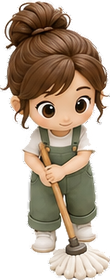
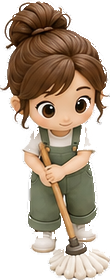
보드 비율·누끼·사운드·별점 연출 등 다듬기
- 보드: 세로를 평균 폭에 맞춰 타일이 정사각으로 보이게(Y0/Y1 850/1610), 침대 침범 해소
- 캐릭터: 머리카락 주변 흰 누끼 잔여 제거(9장, 총 9,419px)
- 하단 진행바(progressWrap) 삭제 — 관련 HTML/CSS/JS 정리
- 장애물이 놓인 칸은 깨끗한 타일(0)로 렌더
- 타일 2·3을 같은 얼룩 패턴의 강약 2단계로 재생성 → 밝기 214/183/149/121/94/60 균등 진행
  (기존엔 3번이 가장자리만 더러워 2번보다 깨끗해 보였다)
- 사운드: 청소음의 '픽' 나던 삼각파 제거, 반짝임을 부드러운 종소리로 교체, 별 효과음 추가
- 클리어 팝업: 별이 1→2→3 순서로 박히는 애니메이션(빠를수록 3개), 용도 없던 '해금' 문구 제거
- 스테이지 화면: 뒤로 버튼과 제목 알약을 한 줄 세로 중앙 정렬, 제목 텍스트 알약 정중앙

Claude-Session: https://claude.ai/code/session_0111YUZQqwRvMGsnxcS6qdpi

diff --git a/css/style.css b/css/style.css
@@ -172,20 +172,17 @@ button:disabled { opacity: .45; filter: none; cursor: default; }
 }
 .tool:has(button:disabled) > span { opacity: .45; }
 
-/* ================================ 진행 게이지 ============================== */
-#progressWrap {
-  position: fixed;
-  left: 50%; transform: translateX(-50%);
-  bottom: calc(var(--safe-b) + 210px * var(--k));
-  width: 46%; height: calc(14px * var(--k));
-  background: rgba(120, 94, 62, .22);
-  border-radius: 99px; overflow: hidden; z-index: 4;
-}
-#progressBar {
-  height: 100%; width: 0%;
-  background: linear-gradient(90deg, var(--sage), #cbbf86, #e8c98a);
-  border-radius: 99px;
-  transition: width .28s cubic-bezier(.22, 1, .36, 1);
+/* ============================ 클리어 별점 애니메이션 ======================= */
+.clear-stars { display: flex; justify-content: center; gap: 10px; margin: 2px 0 6px; height: 46px; }
+.clear-stars img { width: 46px; height: 46px; }
+/* 아직 안 박힌 별 — 크게 벌어진 채 투명 */
+.clear-stars img.off { opacity: 0; transform: scale(2.2) rotate(-25deg); }
+/* 박히는 순간 — 위에서 '탁' 내려앉으며 살짝 튕긴다 */
+.clear-stars img.on { opacity: 1; animation: starPop .42s cubic-bezier(.2, 1.5, .4, 1) both; }
+@keyframes starPop {
+  0%   { opacity: 0; transform: scale(2.2) rotate(-25deg); }
+  60%  { opacity: 1; transform: scale(.86) rotate(4deg); }
+  100% { opacity: 1; transform: scale(1) rotate(0); }
 }
 
 /* ================================== 화면 ================================== */
@@ -285,18 +282,28 @@ button:disabled { opacity: .45; filter: none; cursor: default; }
 /* ===== 스테이지 선택 (페이저 + 레벨 그리드) ===== */
 .stage-screen { justify-content: flex-start; gap: 10px;
   padding: calc(var(--safe-t) + 12px) 0 calc(var(--safe-b) + 22px); }
+/* 뒤로 버튼과 제목 알약을 한 줄에 — 서로 세로 중앙 정렬 */
+.stage-head {
+  width: 100%; display: flex; align-items: center; gap: 12px;
+  padding: 0 16px; margin-bottom: 4px;
+}
 .stage-back {
-  position: absolute; top: calc(var(--safe-t) + 14px); left: 14px; z-index: 6;
+  flex: 0 0 auto;
   width: 46px; height: 46px; border-radius: 50%; padding: 0;
   background: rgba(253, 247, 234, .9); border: 3px solid var(--wood); color: var(--ink);
   cursor: pointer; display: flex; align-items: center; justify-content: center;
 }
-.stage-back svg { width: 24px; height: 24px; }
+.stage-back svg { width: 24px; height: 24px; display: block; }
+/* 알약 안에서 글자가 정확히 가운데 오도록 flex 중앙 정렬(폰트 baseline 보정) */
 .title-pill {
+  flex: 1; min-width: 0; height: 52px;
+  display: flex; align-items: center; justify-content: center;
+  /* 뒤로 버튼(46px + gap 12px)만큼 오른쪽에 여백을 둬 알약이 화면 정중앙에 오게 한다 */
+  margin-right: 58px;
   font-size: 28px; font-weight: 800; color: var(--ink); letter-spacing: 1px;
   background: linear-gradient(180deg, #fbf1d8, #efe0bd);
   border: 5px solid var(--wood); border-radius: 999px;
-  padding: 6px 44px; box-shadow: 0 5px 0 var(--wood-dark); margin: 2px 0 4px;
+  box-shadow: 0 5px 0 var(--wood-dark);
 }
 .area-viewport { width: 100%; flex: 1; overflow: hidden; min-height: 0; }
 .area-track { display: flex; height: 100%; transition: transform .28s ease; }

diff --git a/js/audio.js b/js/audio.js
@@ -64,18 +64,36 @@ function tone(freq, dur, type = 'sine', vol = 0.3, slideTo = null) {
   osc.start(); osc.stop(c.currentTime + dur + 0.02);
 }
 
-// 한 칸 청소 — combo가 올라갈수록 피치 상승(쾌감)
+// 한 칸 청소 — '쓱' 마찰음만. (예전엔 삼각파 톤이 겹쳐 '픽' 소리가 났다)
 export function sfxClean(combo = 0) {
-  const pitch = 1 + Math.min(combo, 12) * 0.05;
-  swipeNoise(pitch, 0.12, 0.3);
-  tone(420 * pitch, 0.08, 'triangle', 0.08);
+  const pitch = 1 + Math.min(combo, 12) * 0.04;
+  swipeNoise(pitch, 0.14, 0.28);
 }
 
-// 때가 완전히 벗겨져 반짝! (타일이 깨끗해짐)
+// 때가 완전히 벗겨져 반짝! — 짧고 날카로운 '픽' 대신 부드러운 종소리
 export function sfxSparkle(combo = 0) {
-  const base = 880 * (1 + Math.min(combo, 12) * 0.04);
-  tone(base, 0.12, 'sine', 0.12);
-  setTimeout(() => tone(base * 1.5, 0.12, 'sine', 0.1), 50);
+  const base = 1046 * (1 + Math.min(combo, 12) * 0.03);   // C6
+  bell(base, 0.34, 0.075);
+  setTimeout(() => bell(base * 1.5, 0.40, 0.055), 70);    // 완전5도 — 듣기 편한 화음
+}
+
+/** 부드러운 종소리 — 천천히 붙었다 길게 사라진다 */
+function bell(freq, dur, vol) {
+  const c = ensure(); if (!c || muted) return;
+  const osc = c.createOscillator(); const g = c.createGain();
+  osc.type = 'sine';
+  osc.frequency.setValueAtTime(freq, c.currentTime);
+  g.gain.setValueAtTime(0.0001, c.currentTime);
+  g.gain.exponentialRampToValueAtTime(vol, c.currentTime + 0.035);   // 부드러운 어택
+  g.gain.exponentialRampToValueAtTime(0.0001, c.currentTime + dur);  // 긴 여운
+  osc.connect(g); g.connect(master);
+  osc.start(); osc.stop(c.currentTime + dur + 0.02);
+}
+
+/** 클리어 팝업에서 별이 하나씩 박힐 때 — 음이 올라가며 상쾌하게 */
+export function sfxStar(i = 0) {
+  const scale = [1318, 1568, 2093];            // E6 · G6 · C7
+  bell(scale[Math.min(i, 2)], 0.45, 0.09);
 }
 
 export function sfxMoveBlocked() { tone(160, 0.08, 'square', 0.12, 120); }

diff --git a/index.html b/index.html
@@ -37,7 +37,6 @@
         <div class="tool"><button id="btnRestart" class="icon-btn btn-restart" aria-label="다시하기"></button><span>다시하기</span></div>
       </div>
 
-      <div id="progressWrap" class="hidden"><div id="progressBar"></div></div>
     </div>
 
     <!-- 타이틀 -->
@@ -55,10 +54,12 @@
 
     <!-- 스테이지 선택 -->
     <section id="screenStages" class="screen hidden stage-screen">
-      <button id="btnStagesBack" class="stage-back" aria-label="뒤로">
-        <svg viewBox="0 0 24 24" fill="none" stroke="currentColor" stroke-width="3" stroke-linecap="round" stroke-linejoin="round"><path d="M15 5l-7 7 7 7"/></svg>
-      </button>
-      <div class="title-pill">스테이지</div>
+      <div class="stage-head">
+        <button id="btnStagesBack" class="stage-back" aria-label="뒤로">
+          <svg viewBox="0 0 24 24" fill="none" stroke="currentColor" stroke-width="3" stroke-linecap="round" stroke-linejoin="round"><path d="M15 5l-7 7 7 7"/></svg>
+        </button>
+        <div class="title-pill">스테이지</div>
+      </div>
       <div class="area-viewport"><div class="area-track" id="areaTrack"></div></div>
       <div class="pager">
         <button class="pg-arrow" id="pgPrev" aria-label="이전">
@@ -85,8 +86,11 @@
       <div class="modal-card">
         <div class="clear-emoji">✨</div>
         <h2 id="clearTitle">깨끗해졌다!</h2>
+        <div class="clear-stars" id="clearStars">
+          <img src="assets/room/ui/stage/star.png" alt=""><img src="assets/room/ui/stage/star.png" alt=""><img src="assets/room/ui/stage/star.png" alt="">
+        </div>
         <p id="clearStory" class="clear-story"></p>
-        <div class="clear-stats"><span id="clearTime"></span><span id="clearUnlock"></span></div>
+        <div class="clear-stats"><span id="clearTime"></span></div>
         <button id="btnNext" class="big-btn">다음 스테이지</button>
         <button class="ghost-btn" data-back>스테이지 목록</button>
       </div>

diff --git a/js/main.js b/js/main.js
@@ -35,6 +35,21 @@ function starsFor(st, elapsed) {
   return 1;
 }
 
+/** 클리어 팝업 — 별을 하나씩 차례로 '탁' 박아 넣는다 */
+let starTimers = [];
+function playStars(n) {
+  starTimers.forEach(clearTimeout); starTimers = [];
+  const imgs = [...$('clearStars').children];
+  imgs.forEach(el => { el.classList.remove('on'); el.classList.add('off'); });
+  imgs.forEach((el, i) => {
+    if (i >= n) return;
+    starTimers.push(setTimeout(() => {
+      el.classList.remove('off'); el.classList.add('on');
+      Audio.sfxStar(i);
+    }, 260 + i * 300));
+  });
+}
+
 const screens = ['screenTitle', 'screenStages', 'screenIntro', 'screenClear',
                  'screenFail', 'screenHelp', 'screenPause', 'screenLoad'];
 
@@ -47,7 +62,6 @@ function show(id) {
   const inGame = id === null || id === 'screenHelp' || id === 'screenPause';
   $('hud').classList.toggle('hidden', !inGame);
   $('toolbar').classList.toggle('hidden', !inGame);
-  $('progressWrap').classList.toggle('hidden', !inGame);
 }
 
 function fmtTime(sec) {
@@ -64,7 +78,6 @@ function syncScale() {
 // ----------------------------- 게임 훅 -----------------------------
 function makeGame() {
   game = new Game($('game'), {
-    onProgress: (p) => { $('progressBar').style.width = `${Math.round(p * 100)}%`; },
     onTiles: (left) => { $('hudTiles').textContent = String(left); },
     onUndoState: (can) => { $('btnUndo').disabled = !can; },
     onTimer: (left, total, elapsed) => {
@@ -112,7 +125,7 @@ function onStageClear(elapsed) {
   Toss.track('stage_clear', { stage: st.id, elapsed, stars: s });
   $('clearStory').textContent = st.clear || '';
   $('clearTime').textContent = elapsed != null ? `⏱ ${fmtTime(elapsed)}` : '';
-  $('clearUnlock').textContent = st.unlock ? `🎁 ${st.unlock} 해금!` : '';
+  playStars(s);
   $('btnNext').textContent = current + 1 < stages.length ? '다음 스테이지' : '처음으로';
   show('screenClear');
 }

diff --git a/js/render.js b/js/render.js
@@ -13,7 +13,8 @@ export const VW = 1024, VH = 2219;                 // 배경 원본 해상도 = 
 // 보드 사다리꼴 (세로형 배경의 빈 바닥에 맞춤)
 // 화면에서 상단 HUD와 하단 툴바 사이에 오도록 배치 — 값이 크면 보드가 아래로 내려가
 // 툴바에 겹쳐 "너무 아래" 로 보인다.
-const TOPW = 700, BOTW = 812, Y0 = 720, Y1 = 1600;
+// 세로 길이는 평균 폭과 비슷해야 타일이 정사각으로 보인다(길면 늘어나 보임).
+const TOPW = 700, BOTW = 812, Y0 = 850, Y1 = 1610;
 const CX = VW / 2;
 const QUAD = [
   [CX - TOPW / 2, Y0], [CX + TOPW / 2, Y0],

diff --git a/js/game.js b/js/game.js
@@ -229,10 +229,11 @@ export class Game {
     }
   }
 
-  /** 렌더용 그리드 — 장애물 칸만 원래 더러움 값으로 되돌린 사본 */
+  /** 렌더용 그리드 — 장애물이 놓인 칸은 **깨끗한 타일(0)** 로 그린다.
+   *  (물건에 가려 안 보이는 자리라 때가 있으면 지저분해 보인다) */
   _dispGrid() {
     const d = this.dur.map(r => r.slice());
-    for (const o of this.obstacles) d[o.y][o.x] = this.obstDisp[o.x + ',' + o.y] ?? 0;
+    for (const o of this.obstacles) d[o.y][o.x] = 0;
     return d;
   }
 
